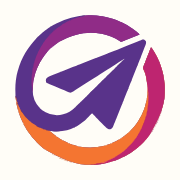
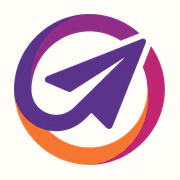
Use the PNG artwork; drop the auto-traced SVGs
The SVG set was traced from raster, which turned smooth gradients into faceted
path soup and looked poor at size. The owner's PNGs are the real artwork, so
they replace it — and PNG is the right format here, so don't re-vectorise.

They needed processing before they could ship. As supplied, mark.png was 4.8MB
at 2048x2048 with a white background baked in; the lockups carried roughly half
their canvas as transparent padding. All three now ship de-backgrounded, trimmed
to content, sized for 3x the largest on-page use (36px) and palette-encoded:
9KB, 17KB and 17KB, against 4.8MB and 275KB before.

Removing the mark's white background is the fiddly part. `alpha = 255 - min(rgb)`
treats saturated colour as semi-transparent — orange comes out 88% opaque — so
the conversion scales that distance and clamps, keeping real colour solid while
anti-aliased edges get partial alpha, then un-blends those edges from white so
they don't wash out against a dark surface. A first attempt left a faint square
haze over the whole bounding box on anything but white, from near-white pixels
landing at 2-3% alpha instead of zero; a floor fixes that.

The same floor also drops a very faint drop shadow baked under the artwork,
which is why the trimmed mark is square. Checked at 16/36/72/110px composited
onto the nav, the cream footer, dark mode and a bio-page pink.

Favicon and social images regenerated from the same source; icon.svg becomes
icon.png.
[…]

diff --git a/src/components/brand/logo.tsx b/src/components/brand/logo.tsx
@@ -4,24 +4,23 @@ import { cn } from "@/lib/utils";
 /**
  * Brand assets.
  *
- * These render the owner's own artwork from `public/brand/` rather than a
- * hand-drawn approximation. The files are auto-traced vectors, so they are path
- * soup — optimised at precision=1 and cropped to their content, which is the
- * difference between ~44KB and the 206KB that was uploaded.
+ * These render the owner's own PNGs from `public/brand/`. They replaced an
+ * auto-traced SVG set that looked poor at size — the trace turned smooth
+ * gradients into faceted path soup.
  *
  * The wordmark ink is a dark slate that vanishes on a dark background, so the
- * lockup ships as two files and the theme picks one. The mark itself is
- * identical in both themes: its background was stripped, so it sits correctly on
- * the nav, the cream footer, dark mode, and whatever colour a customer chooses
- * for their link-in-bio page.
+ * lockup ships as two files and the theme picks one. The mark is identical in
+ * both themes: its white background was made transparent, so it sits correctly
+ * on the nav, the cream footer, dark mode, and whatever colour a customer
+ * chooses for their link-in-bio page.
  */
 
-/** Natural aspect ratios, from each file's viewBox. */
-const MARK_RATIO = 1;
-const LOCKUP_RATIO = 1335 / 312;
+/** Intrinsic sizes of the shipped files, for correct aspect and no layout shift. */
+const MARK = { w: 256, h: 256 };
+const LOCKUP = { w: 837, h: 192 };
 
 /**
- * The circular mark on its own — favicon-adjacent spots, avatars, tight places.
+ * The circular mark on its own — tight spaces, avatars, the bio badge.
  *
  * Pass `title=""` where the brand name is already adjacent in text, so screen
  * readers don't announce it twice.
@@ -34,12 +33,12 @@ export function LogoMark({
   title?: string;
 }) {
   return (
-    // eslint-disable-next-line @next/next/no-img-element -- a static SVG; next/image would only add a wrapper and a request.
+    // eslint-disable-next-line @next/next/no-img-element -- a fixed-size static asset; next/image would add a request and a wrapper for nothing.
     <img
-      src="/brand/mark.svg"
+      src="/brand/mark.png"
       alt={title}
-      width={36}
-      height={36 * MARK_RATIO}
+      width={MARK.w}
+      height={MARK.h}
       className={cn("h-9 w-9", className)}
       {...(title ? {} : { "aria-hidden": true })}
     />
@@ -59,18 +58,18 @@ export function Logo({ className, imgClassName }: { className?: string; imgClass
     <span className={cn("inline-flex items-center", className)}>
       {/* eslint-disable @next/next/no-img-element */}
       <img
-        src="/brand/logo-lockup.svg"
+        src="/brand/logo-lockup.png"
         alt="InstaDM247"
-        width={Math.round(36 * LOCKUP_RATIO)}
-        height={36}
+        width={LOCKUP.w}
+        height={LOCKUP.h}
         className={cn("theme-light-only", shared)}
       />
       <img
-        src="/brand/logo-lockup-dark.svg"
+        src="/brand/logo-lockup-dark.png"
         alt=""
         aria-hidden
-        width={Math.round(36 * LOCKUP_RATIO)}
-        height={36}
+        width={LOCKUP.w}
+        height={LOCKUP.h}
         className={cn("theme-dark-only", shared)}
       />
       {/* eslint-enable @next/next/no-img-element */}

diff --git a/docs/ROADMAP.md b/docs/ROADMAP.md
@@ -111,41 +111,46 @@ deliberate.
 
 ### Brand
 
-**These are the owner's own files, not a redraw.** They live in `public/brand/`
-and `src/components/brand/logo.tsx` renders them:
+**These are the owner's own files.** They live in `public/brand/` and
+`src/components/brand/logo.tsx` renders them:
 
 | File | Used for |
 |---|---|
-| `mark.svg` | `LogoMark` — the ring alone, for tight spaces and the bio badge |
-| `logo-lockup.svg` | the lockup, light themes |
-| `logo-lockup-dark.svg` | the lockup, dark themes |
+| `mark.png` | `LogoMark` — the ring alone, for tight spaces and the bio badge |
+| `logo-lockup.png` | the lockup, light themes |
+| `logo-lockup-dark.png` | the lockup, dark themes |
 
-Four things about them worth not undoing:
+They replaced an auto-traced SVG set that looked poor at size — tracing turned
+smooth gradients into faceted path soup. PNG is the right format for this
+artwork; don't re-vectorise it.
 
-1. **They are auto-traced**, so they are path soup — 198 and 331 paths, and
-   326 near-identical fills where anti-aliased edges each became their own
-   shape. They ship optimised at `precision=1`, which is indistinguishable at
-   display sizes and is the difference between ~44KB and the 206KB uploaded.
-   Re-optimise, don't hand-edit.
-2. **The mark's baked white background was removed** and its viewBox cropped to
-   the artwork, so it sits correctly on the nav, the cream footer, dark mode and
-   whatever colour a customer picks for their link-in-bio page.
-3. **The lockup ships twice.** Its wordmark ink is a dark slate baked into the
-   traced paths and invisible on a dark ground, and 326 fills cannot be
-   recoloured by CSS. The dark variant was generated by inverting luminance
-   across the navy family only — the mark itself is untouched. The swap is the
-   `.theme-light-only` / `.theme-dark-only` pair in `globals.css`, and it has to
-   be CSS: the theme lives in localStorage and is applied before paint, so
-   choosing during render would mean a hydration mismatch or a flash of the
-   wrong logo.
-4. **The favicon adds a paper-white disc** behind the mark, because the mark's
-   interior is transparent and its plane is dark — without it the plane vanishes
-   into dark browser chrome. Check any change at 16/24/32/64px against *both*
-   light and dark chrome; that is the only way this class of error shows up.
+Four things worth not undoing:
 
-Derived assets are wired up by Next's file conventions — `src/app/icon.svg`,
+1. **They are processed, not raw.** As supplied, `mark.png` was 4.8MB at
+   2048×2048 with a white background baked in, and the lockups carried ~50%
+   transparent padding. They ship de-backgrounded, trimmed to content, sized for
+   3× the largest on-page use (36px) and palette-encoded: **9KB + 17KB + 17KB**.
+   Regenerate from the originals rather than editing these in place.
+2. **The mark's white background was converted to alpha**, so it sits correctly
+   on the nav, the cream footer, dark mode and any colour a customer picks for
+   their link-in-bio page. Naive white-removal leaves either a pale halo or
+   semi-transparent saturated colour; the conversion clamps near-white to fully
+   transparent and un-blends edge pixels from white. It also drops a very faint
+   drop shadow baked under the artwork, which is what makes the mark square.
+3. **The lockup ships twice**, because its wordmark ink is a dark slate that
+   disappears on a dark ground and a flat image cannot be recoloured by CSS. The
+   swap is the `.theme-light-only` / `.theme-dark-only` pair in `globals.css`,
+   and it has to be CSS: the theme lives in localStorage and is applied before
+   paint, so choosing during render would mean a hydration mismatch or a flash
+   of the wrong logo.
+4. **The favicon adds a paper-white disc** behind the mark, because the mark is
+   transparent and its plane is dark — without it the plane vanishes into dark
+   browser chrome. Check any change at 16/24/32/64px against *both* light and
+   dark chrome; that is the only way this class of error shows up.
+
+Derived assets are wired up by Next's file conventions — `src/app/icon.png`,
 `apple-icon.png`, `opengraph-image.png`, `twitter-image.png`. Regenerate all
-four from `public/brand/` if the artwork ever changes.
+four from the originals if the artwork ever changes.
 
 ## Phase 2 — not started
 

diff --git a/docs/DEPLOY.md b/docs/DEPLOY.md
@@ -427,9 +427,9 @@ migration fails there rather than on the server.
 
 ## Brand assets
 
-The logo in `public/brand/` is the owner's own artwork, rendered by
+The logo in `public/brand/` is the owner's own PNG artwork, rendered by
 `src/components/brand/logo.tsx`. See the Brand section of `docs/ROADMAP.md`
-before changing it — the files carry four non-obvious constraints (they are
-auto-traced and must be re-optimised rather than hand-edited, the mark's
-background is deliberately stripped, the lockup ships in two theme variants, and
-the favicon needs its backing disc).
+before changing it — the shipped files are processed (de-backgrounded, trimmed,
+resized, palette-encoded) rather than raw, the lockup ships in two theme
+variants because a flat image cannot be recoloured by CSS, and the favicon needs
+its backing disc.
